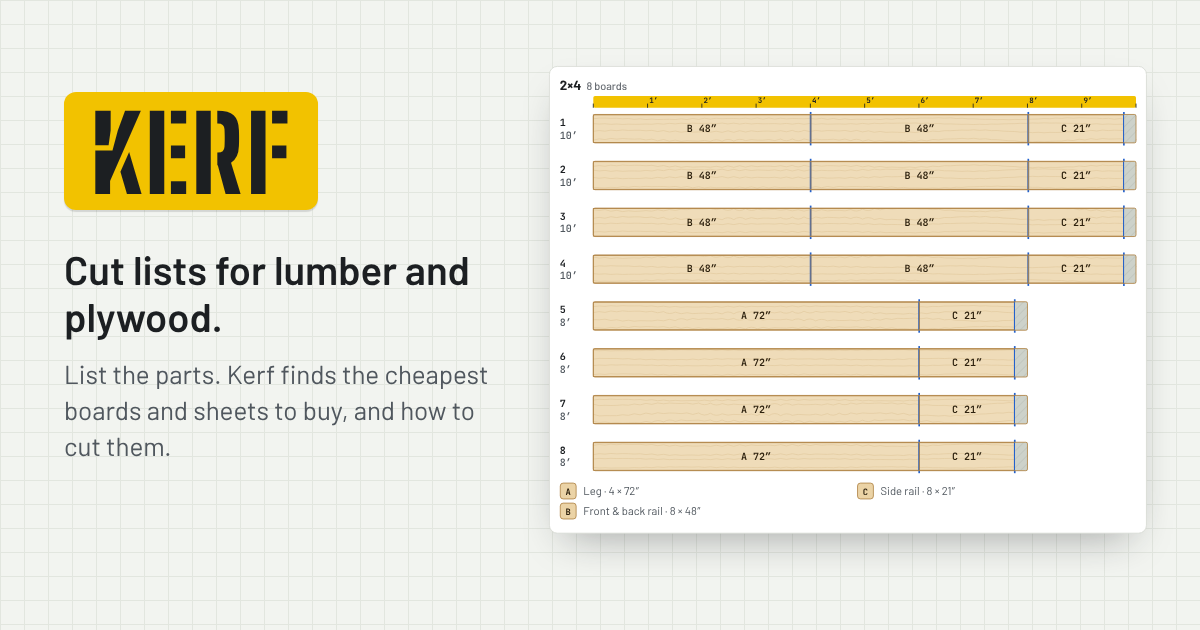
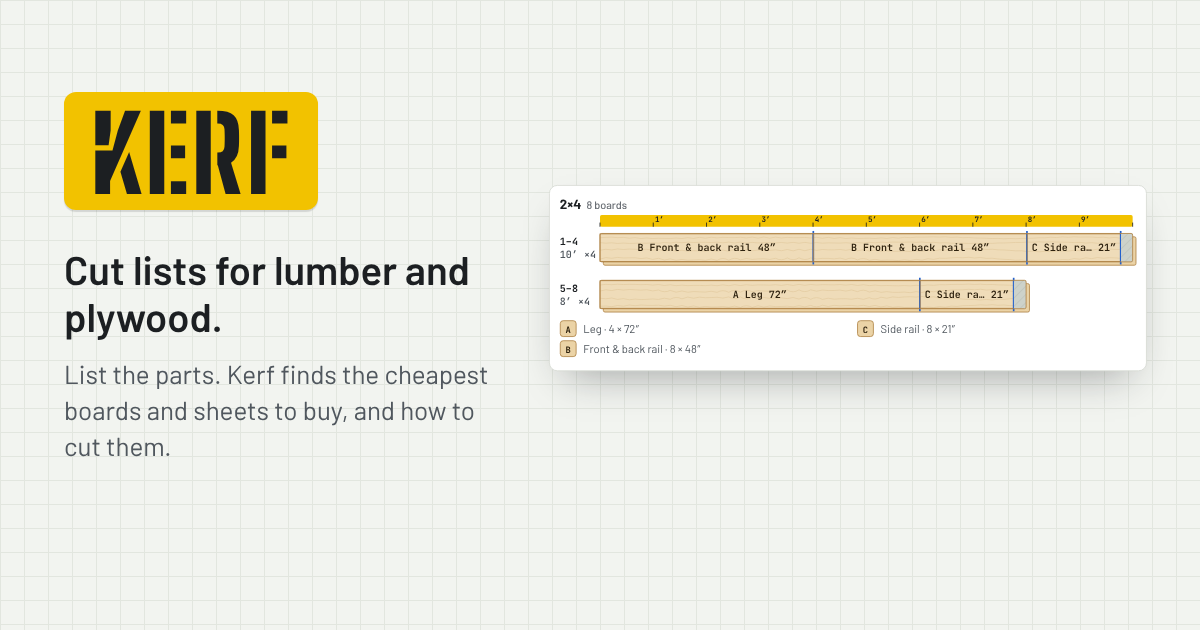
Redraw the saw's picture and the link preview with boards cut alike and part names
The README's picture at the saw now shows board 2 as the same as board 1, open with its next cut, and its description
says so; the plan's picture follows at its foot, where the 2×4s start as one row. The link preview's 2×4 drawing is
two rows now, naming its parts, so screenshots.mjs sets it level with the words beside it rather than at the top.

Claude-Session: https://claude.ai/code/session_01PQbLNSZBMRZG8siQy7LTL3

Changed region(s): [[0.4625, 0.1206, 0.9558, 0.8746]]

diff --git a/README.md b/README.md
@@ -9,7 +9,7 @@
   &nbsp;
   <img src="docs/phone-plan.png" alt="The plan: $100.64 to buy, the 2×4s the cheapest possible, for 8 boards and 1 sheet in 26 cuts, a tip that making the front and back rails 47 15/16 inches instead of 48 means spending $4.12 less on 2×4 and leaves no spare length on the 8-foot boards, and the shopping list" width="250">
   &nbsp;
-  <img src="docs/phone-saw.png" alt="At the saw, 4 of 26 cuts done: board 1, a 10-foot 2×4, with its three cuts ticked off and a 2 5/8 inch offcut left, and the first cut on board 2 ticked, with the second marked as the next cut" width="250">
+  <img src="docs/phone-saw.png" alt="At the saw, 4 of 26 cuts done: board 1, a 10-foot 2×4, with its three cuts ticked off and a 2 5/8 inch offcut left, and board 2, the same as board 1, open with its first cut ticked and the second marked as the next cut" width="250">
 </p>
 
 ## How it works
